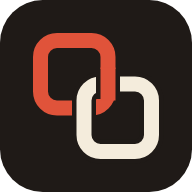
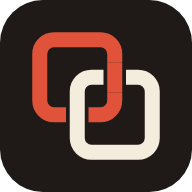
Логотип: звенья пересекаются на прямых участках, ровный просвет без кривых стыков

Changed region(s): [[0.1562, 0.1562, 0.8438, 0.8438], [0.7188, 0.7188, 0.75, 0.75], [0.25, 0.25, 0.2812, 0.2812]]

diff --git a/js/main.js b/js/main.js
@@ -47,7 +47,7 @@ function showGate(html) {
   return gate.querySelector('.card');
 }
 
-const HEAD = `<h1><svg viewBox="0 0 512 512" aria-hidden="true"><rect width="512" height="512" rx="114" fill="#1f1a17"/><rect x="108" y="108" width="180" height="180" rx="44" fill="none" stroke="#e0533a" stroke-width="40"/><rect x="224" y="224" width="180" height="180" rx="44" fill="none" stroke="#1f1a17" stroke-width="64"/><rect x="224" y="224" width="180" height="180" rx="44" fill="none" stroke="#f4ecdc" stroke-width="40"/><path d="M288 184v80" stroke="#1f1a17" stroke-width="64"/><path d="M288 180v88" stroke="#e0533a" stroke-width="40"/></svg>Доска</h1>`;
+const HEAD = `<h1><svg viewBox="0 0 512 512" aria-hidden="true"><defs><clipPath id="over"><rect x="266" y="166" width="80" height="80"/></clipPath></defs><rect width="512" height="512" rx="114" fill="#1f1a17"/><rect x="106" y="106" width="200" height="200" rx="38" fill="none" stroke="#e0533a" stroke-width="40"/><rect x="206" y="206" width="200" height="200" rx="38" fill="none" stroke="#1f1a17" stroke-width="60"/><rect x="206" y="206" width="200" height="200" rx="38" fill="none" stroke="#f4ecdc" stroke-width="40"/><g clip-path="url(#over)"><rect x="106" y="106" width="200" height="200" rx="38" fill="none" stroke="#1f1a17" stroke-width="60"/><rect x="106" y="106" width="200" height="200" rx="38" fill="none" stroke="#e0533a" stroke-width="40"/></g></svg>Доска</h1>`;
 
 // Заготовки новой доски: значение, название, пояснение
 const TEMPLATES = [

diff --git a/sw.js b/sw.js
@@ -1,6 +1,6 @@
 // Service worker: оболочка приложения открывается и без сети.
 // Сначала сеть, при неудаче копия из кэша. Запросы к серверу доски не трогаем.
-const CACHE = 'desk-v8';
+const CACHE = 'desk-v9';
 const SHELL = [
   './', 'index.html', 'manifest.webmanifest', 'css/app.css',
   'js/main.js', 'js/board.js', 'js/api.js', 'js/config.js', 'js/cork.js', 'js/extras.js', 'js/history.js',
